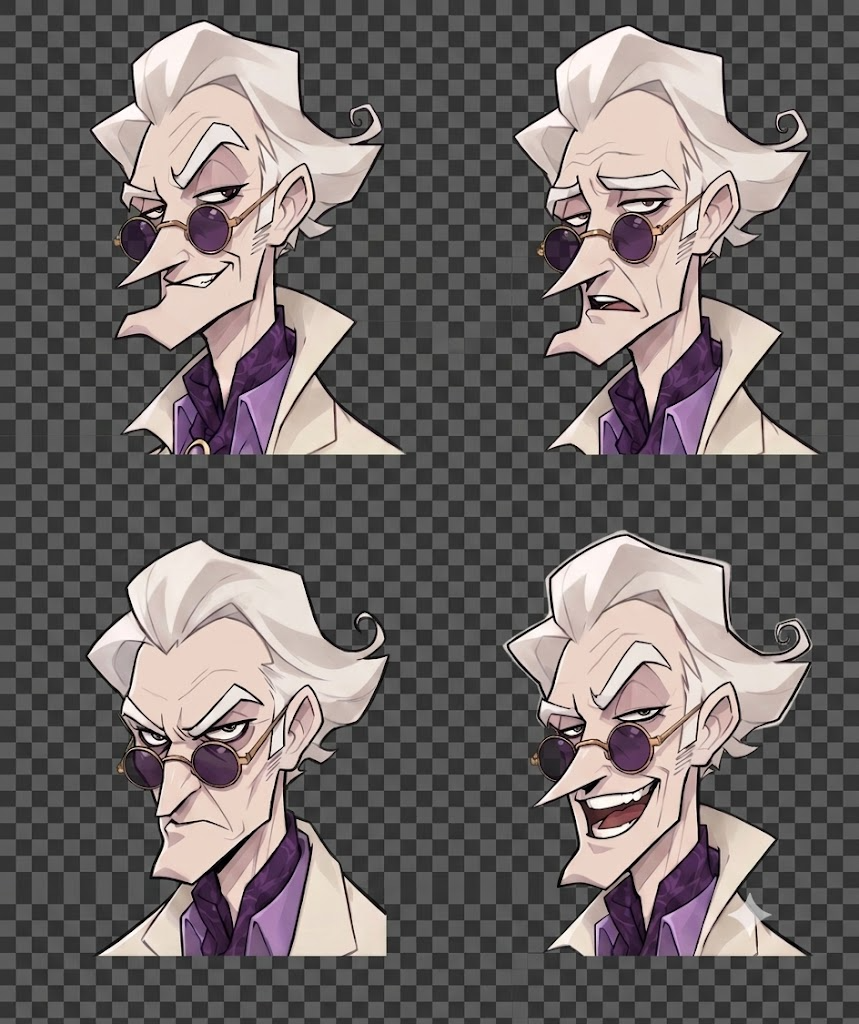
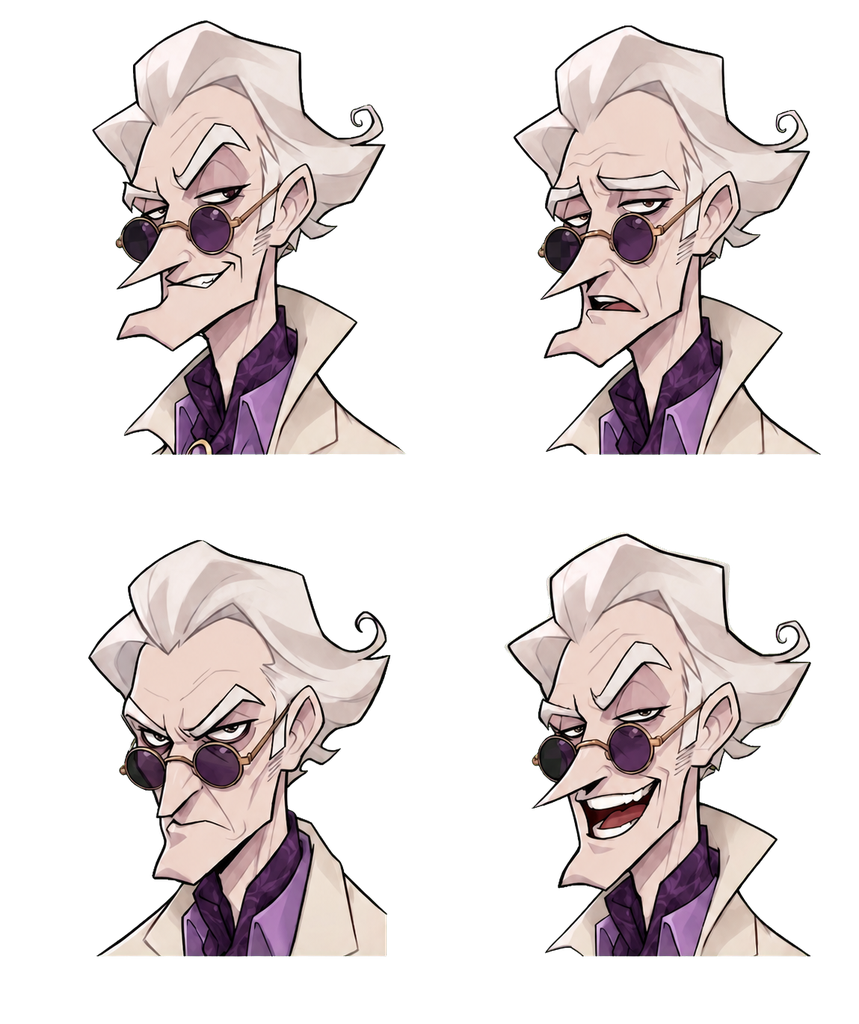
Remove Richard portrait background

diff --git a/Assets/_Project/Art/Characters/Portraits/README.md b/Assets/_Project/Art/Characters/Portraits/README.md
@@ -1,9 +1,9 @@
 # Character Expression Portraits
 
-`The Wake Without Footprints` 주요 인물 9명의 대화 및 인물 UI용 표정 Sprite 모음입니다.
-각 원본 PNG는 2×2 표정 시트이며 Unity에서 `Sprite Mode: Multiple`로 분할합니다.
+`The Wake Without Footprints`의 주요 인물 9명을 위한 표정 Sprite 모음입니다.
+각 PNG는 2×2 표정 시트이며 Unity에서 `Sprite Mode: Multiple`로 분할됩니다.
 
-## 포함된 인물
+## 포함 인물
 
 | Character | Sheet | Sprite prefix |
 | --- | --- | --- |
@@ -17,20 +17,59 @@
 | Dr. Helena Ward | `portrait_helena_ward_expressions.png` | `portrait_helena_ward_*` |
 | Owen Price | `portrait_owen_price_expressions.png` | `portrait_owen_price_*` |
 
-## 표정 배치와 Sprite 이름
+## 표정 배치
 
-Unity의 Sprite 좌표는 좌하단이 원점이지만, 표정 의미는 원본 이미지를 보는 방향으로 정의합니다.
+Unity Sprite 좌표는 왼쪽 아래가 원점이지만, 표정 이름은 원본 이미지를 보는 방향으로 정의합니다.
 
 | 원본 배치 | Expression | Sprite suffix |
 | --- | --- | --- |
-| 좌상단 | 기본·자신감 | `_neutral` |
-| 우상단 | 걱정·불안 | `_concerned` |
-| 좌하단 | 분노·경계 | `_angry` |
-| 우하단 | 기쁨·웃음 | `_happy` |
+| 왼쪽 위 | 기본·자신감 | `_neutral` |
+| 오른쪽 위 | 걱정·불안 | `_concerned` |
+| 왼쪽 아래 | 분노·경계 | `_angry` |
+| 오른쪽 아래 | 기쁨·웃음 | `_happy` |
 
-각 인물은 위 네 가지 표정을 가지며 총 36개의 Sprite sub-asset이 생성됩니다.
+## Sprite 명세
 
-## Unity 임포트 기준
+| Character | Expression | Sprite name |
+| --- | --- | --- |
+| Adrian Vale | Neutral | `portrait_adrian_vale_neutral` |
+| Adrian Vale | Concerned | `portrait_adrian_vale_concerned` |
+| Adrian Vale | Angry | `portrait_adrian_vale_angry` |
+| Adrian Vale | Happy | `portrait_adrian_vale_happy` |
+| Daniel Mercer | Neutral | `portrait_daniel_mercer_neutral` |
+| Daniel Mercer | Concerned | `portrait_daniel_mercer_concerned` |
+| Daniel Mercer | Angry | `portrait_daniel_mercer_angry` |
+| Daniel Mercer | Happy | `portrait_daniel_mercer_happy` |
+| Richard Hawthorne | Neutral | `portrait_richard_hawthorne_neutral` |
+| Richard Hawthorne | Concerned | `portrait_richard_hawthorne_concerned` |
+| Richard Hawthorne | Angry | `portrait_richard_hawthorne_angry` |
+| Richard Hawthorne | Happy | `portrait_richard_hawthorne_happy` |
+| Evelyn Shaw | Neutral | `portrait_evelyn_shaw_neutral` |
+| Evelyn Shaw | Concerned | `portrait_evelyn_shaw_concerned` |
+| Evelyn Shaw | Angry | `portrait_evelyn_shaw_angry` |
+| Evelyn Shaw | Happy | `portrait_evelyn_shaw_happy` |
+| Claire Hawthorne | Neutral | `portrait_claire_hawthorne_neutral` |
+| Claire Hawthorne | Concerned | `portrait_claire_hawthorne_concerned` |
+| Claire Hawthorne | Angry | `portrait_claire_hawthorne_angry` |
+| Claire Hawthorne | Happy | `portrait_claire_hawthorne_happy` |
+| Captain Thomas Reed | Neutral | `portrait_thomas_reed_neutral` |
+| Captain Thomas Reed | Concerned | `portrait_thomas_reed_concerned` |
+| Captain Thomas Reed | Angry | `portrait_thomas_reed_angry` |
+| Captain Thomas Reed | Happy | `portrait_thomas_reed_happy` |
+| Marcus Bell | Neutral | `portrait_marcus_bell_neutral` |
+| Marcus Bell | Concerned | `portrait_marcus_bell_concerned` |
+| Marcus Bell | Angry | `portrait_marcus_bell_angry` |
+| Marcus Bell | Happy | `portrait_marcus_bell_happy` |
+| Dr. Helena Ward | Neutral | `portrait_helena_ward_neutral` |
+| Dr. Helena Ward | Concerned | `portrait_helena_ward_concerned` |
+| Dr. Helena Ward | Angry | `portrait_helena_ward_angry` |
+| Dr. Helena Ward | Happy | `portrait_helena_ward_happy` |
+| Owen Price | Neutral | `portrait_owen_price_neutral` |
+| Owen Price | Concerned | `portrait_owen_price_concerned` |
+| Owen Price | Angry | `portrait_owen_price_angry` |
+| Owen Price | Happy | `portrait_owen_price_happy` |
+
+## Unity Import 기준
 
 - Texture Type: `Sprite (2D and UI)`
 - Sprite Mode: `Multiple`
@@ -49,14 +88,18 @@ Unity의 Sprite 좌표는 좌하단이 원점이지만, 표정 의미는 원본 
 - Compression: `High Quality`
 - Fallback Physics Shape: 비활성화
 
-가로 길이가 홀수인 Richard 시트(`859×1024`)는 모든 픽셀을 보존하기 위해 왼쪽 열을 429px, 오른쪽 열을 430px로 분할합니다.
+가로 길이가 홀수인 Richard 시트(`859×1024`)는 모든 픽셀을 보존하기 위해
+왼쪽 열을 429px, 오른쪽 열을 430px로 분할합니다.
 
-## 원본 알파 주의사항
+## 투명 배경 정책
 
-8개 시트는 실제 투명 알파를 포함합니다. Richard 시트는 원본 PNG의 체크무늬가 이미지에 합성된 불투명 배경이며,
-이번 작업에서는 원본을 임의 보정하지 않습니다. 투명 배경이 필요한 경우 체크무늬가 제거된 원본으로 교체해야 합니다.
+9개 표정 시트는 모두 실제 알파 채널을 포함합니다.
+Richard 원본에 합성되어 있던 회색 체크무늬 배경은 제거했으며,
+Unity UI에서 인물 외곽만 자연스럽게 표시되도록 반투명 경계와 디스필을 적용했습니다.
+향후 표정 시트를 추가할 때도 체크무늬가 이미지에 합성된 파일은 사용하지 않습니다.
 
 ## 런타임 연결 범위
 
-이 폴더는 표정별 Sprite 라이브러리입니다. 현재 `Resources/Characters`의 기존 초상화와
-`DialogueController`의 `RawImage` 기반 출력은 변경하지 않습니다. 표정 ID에 따른 대화창 교체 로직은 별도 작업에서 연결합니다.
+이 폴더는 표정별 Sprite 라이브러리입니다.
+현재 `Resources/Characters`의 기존 초상화와 `DialogueController`의 `RawImage` 출력은 변경하지 않습니다.
+표정 ID에 따른 대화창 교체 로직은 별도 작업에서 연결합니다.
